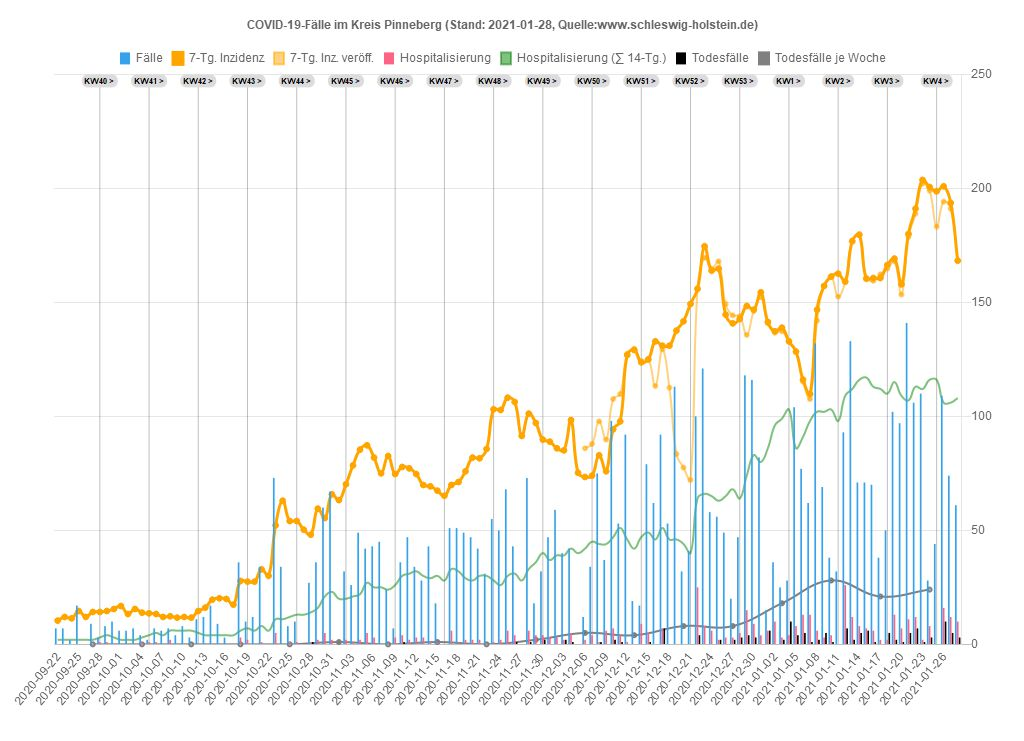
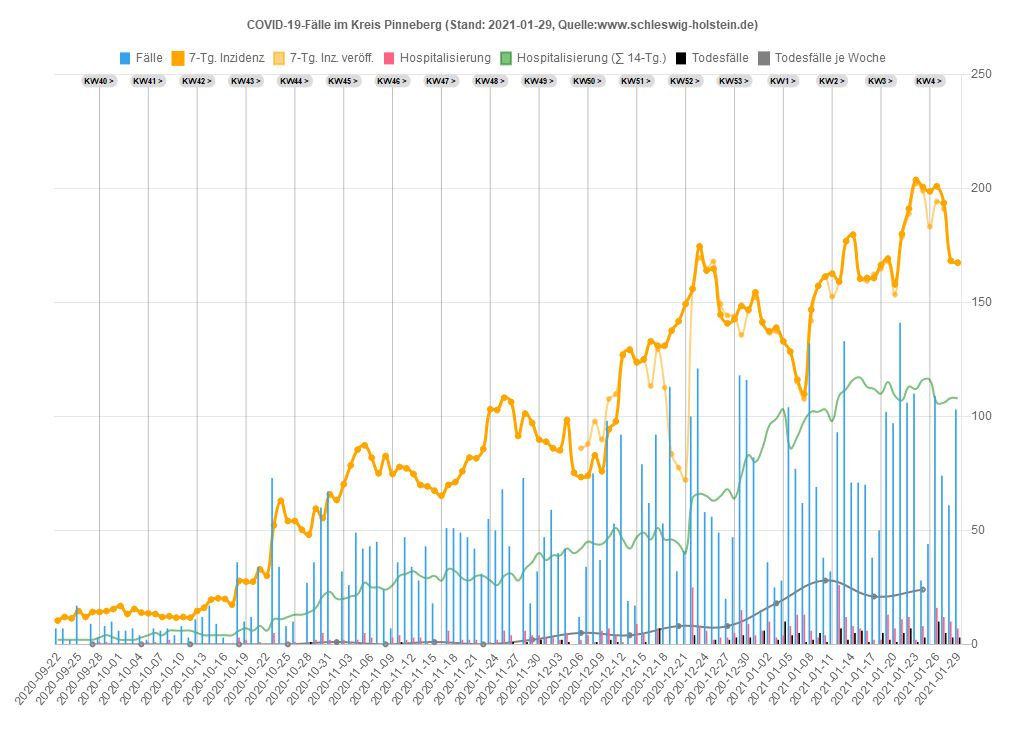
29.01.2021 20:33:06,47

Changed region(s): [[0.0938, 0.0931, 0.9375, 0.9622]]

diff --git a/sh/Data_SH.js b/sh/Data_SH.js
@@ -1,20 +1,20 @@
 var chdata={
-labels: ["2020-09-22","2020-09-23","2020-09-24","2020-09-25","2020-09-26","2020-09-27","2020-09-28","2020-09-29","2020-09-30","2020-10-01","2020-10-02","2020-10-03","2020-10-04","2020-10-05","2020-10-06","2020-10-07","2020-10-08","2020-10-09","2020-10-10","2020-10-11","2020-10-12","2020-10-13","2020-10-14","2020-10-15","2020-10-16","2020-10-17","2020-10-18","2020-10-19","2020-10-20","2020-10-21","2020-10-22","2020-10-23","2020-10-24","2020-10-25","2020-10-26","2020-10-27","2020-10-28","2020-10-29","2020-10-30","2020-10-31","2020-11-01","2020-11-02","2020-11-03","2020-11-04","2020-11-05","2020-11-06","2020-11-07","2020-11-08","2020-11-09","2020-11-10","2020-11-11","2020-11-12","2020-11-13","2020-11-14","2020-11-15","2020-11-16","2020-11-17","2020-11-18","2020-11-19","2020-11-20","2020-11-21","2020-11-22","2020-11-23","2020-11-24","2020-11-25","2020-11-26","2020-11-27","2020-11-28","2020-11-29","2020-11-30","2020-12-01","2020-12-02","2020-12-03","2020-12-04","2020-12-05","2020-12-06","2020-12-07","2020-12-08","2020-12-09","2020-12-10","2020-12-11","2020-12-12","2020-12-13","2020-12-14","2020-12-15","2020-12-16","2020-12-17","2020-12-18","2020-12-19","2020-12-20","2020-12-21","2020-12-22","2020-12-23","2020-12-24","2020-12-25","2020-12-26","2020-12-27","2020-12-28","2020-12-29","2020-12-30","2020-12-31","2021-01-01","2021-01-02","2021-01-03","2021-01-04","2021-01-05","2021-01-06","2021-01-07","2021-01-08","2021-01-09","2021-01-10","2021-01-11","2021-01-12","2021-01-13","2021-01-14","2021-01-15","2021-01-16","2021-01-17","2021-01-18","2021-01-19","2021-01-20","2021-01-21","2021-01-22","2021-01-23","2021-01-24","2021-01-25","2021-01-26","2021-01-27","2021-01-28"],
+labels: ["2020-09-22","2020-09-23","2020-09-24","2020-09-25","2020-09-26","2020-09-27","2020-09-28","2020-09-29","2020-09-30","2020-10-01","2020-10-02","2020-10-03","2020-10-04","2020-10-05","2020-10-06","2020-10-07","2020-10-08","2020-10-09","2020-10-10","2020-10-11","2020-10-12","2020-10-13","2020-10-14","2020-10-15","2020-10-16","2020-10-17","2020-10-18","2020-10-19","2020-10-20","2020-10-21","2020-10-22","2020-10-23","2020-10-24","2020-10-25","2020-10-26","2020-10-27","2020-10-28","2020-10-29","2020-10-30","2020-10-31","2020-11-01","2020-11-02","2020-11-03","2020-11-04","2020-11-05","2020-11-06","2020-11-07","2020-11-08","2020-11-09","2020-11-10","2020-11-11","2020-11-12","2020-11-13","2020-11-14","2020-11-15","2020-11-16","2020-11-17","2020-11-18","2020-11-19","2020-11-20","2020-11-21","2020-11-22","2020-11-23","2020-11-24","2020-11-25","2020-11-26","2020-11-27","2020-11-28","2020-11-29","2020-11-30","2020-12-01","2020-12-02","2020-12-03","2020-12-04","2020-12-05","2020-12-06","2020-12-07","2020-12-08","2020-12-09","2020-12-10","2020-12-11","2020-12-12","2020-12-13","2020-12-14","2020-12-15","2020-12-16","2020-12-17","2020-12-18","2020-12-19","2020-12-20","2020-12-21","2020-12-22","2020-12-23","2020-12-24","2020-12-25","2020-12-26","2020-12-27","2020-12-28","2020-12-29","2020-12-30","2020-12-31","2021-01-01","2021-01-02","2021-01-03","2021-01-04","2021-01-05","2021-01-06","2021-01-07","2021-01-08","2021-01-09","2021-01-10","2021-01-11","2021-01-12","2021-01-13","2021-01-14","2021-01-15","2021-01-16","2021-01-17","2021-01-18","2021-01-19","2021-01-20","2021-01-21","2021-01-22","2021-01-23","2021-01-24","2021-01-25","2021-01-26","2021-01-27","2021-01-28","2021-01-29"],
 datasets: [
 {label: 'Fälle',
 type: 'bar',
 backgroundColor: window.chartColors.blue,
-data: [38,42,63,53,15,15,38,48,49,27,50,16,24,39,54,45,79,54,26,25,65,65,65,55,90,26,88,163,111,160,136,236,142,115,164,164,280,215,313,265,161,142,236,262,220,274,233,177,215,252,247,192,296,158,161,100,294,208,264,250,153,121,145,251,256,225,180,219,71,81,244,240,245,318,234,122,179,356,340,443,429,444,144,210,506,522,489,553,440,193,280,589,673,366,177,201,188,268,576,466,357,135,264,203,265,542,537,482,523,408,143,261,399,491,422,417,358,202,239,468,485,501,459,443,155,162,548,476,363]},
+data: [38,42,63,53,15,15,38,48,49,27,50,16,24,39,54,45,79,54,26,25,65,65,65,55,90,26,88,163,111,160,136,236,142,115,164,164,280,215,313,265,161,142,236,262,220,274,233,177,215,252,247,192,296,158,161,100,294,208,264,250,153,121,145,251,256,225,180,219,71,81,244,240,245,318,234,122,179,356,340,443,429,444,144,210,506,522,489,553,440,193,280,589,673,366,177,201,188,268,576,466,357,135,264,203,265,542,537,482,523,408,143,261,399,491,422,417,358,202,239,468,485,501,459,442,155,161,540,472,386,284]},
 {label: '7-Tg. Inzidenz',
 type: 'line',
 fill: false,
 pointBackgroundColor: 'orange',
 borderColor: 'orange',
-data: [7.2,7.9,8.7,9.4,9.3,9.2,9.1,9.4,9.7,8.4,8.3,8.4,8.7,8.7,8.9,8.8,10.6,10.7,11.1,11.1,12.0,12.4,13.1,12.2,13.5,13.5,15.6,19.0,20.6,23.9,26.7,31.7,35.7,36.6,36.6,38.5,42.6,45.3,48.0,52.2,53.8,53.0,55.5,54.9,55.1,53.7,52.6,53.2,55.7,56.2,55.7,54.8,55.5,52.9,52.4,48.4,49.9,48.5,51.0,49.4,49.2,47.9,49.4,47.9,49.6,48.2,45.8,48.1,46.4,44.2,43.9,43.4,44.1,48.8,49.3,51.1,54.5,58.3,61.8,68.6,72.4,79.7,80.4,81.5,86.6,92.9,94.5,98.8,98.6,100.3,102.7,105.6,110.8,106.6,93.6,85.4,85.2,84.8,84.3,77.2,76.9,75.5,77.6,78.1,78.0,76.9,79.3,83.6,97.0,101.9,99.9,99.7,94.8,93.2,91.2,87.5,85.8,87.8,87.1,89.4,89.2,91.9,93.4,96.3,94.7,92.1,94.8,94.5,89.7]},
+data: [7.2,7.9,8.7,9.4,9.3,9.2,9.1,9.4,9.7,8.4,8.3,8.4,8.7,8.7,8.9,8.8,10.6,10.7,11.1,11.1,12.0,12.4,13.1,12.2,13.5,13.5,15.6,19.0,20.6,23.9,26.7,31.7,35.7,36.6,36.6,38.5,42.6,45.3,48.0,52.2,53.8,53.0,55.5,54.9,55.1,53.7,52.6,53.2,55.7,56.2,55.7,54.8,55.5,52.9,52.4,48.4,49.9,48.5,51.0,49.4,49.2,47.9,49.4,47.9,49.6,48.2,45.8,48.1,46.4,44.2,43.9,43.4,44.1,48.8,49.3,51.1,54.5,58.3,61.8,68.6,72.4,79.7,80.4,81.5,86.6,92.9,94.5,98.8,98.6,100.3,102.7,105.6,110.8,106.6,93.6,85.4,85.2,84.8,84.3,77.2,76.9,75.5,77.6,78.1,78.0,76.9,79.3,83.6,97.0,101.9,99.9,99.7,94.8,93.2,91.2,87.5,85.8,87.8,87.1,89.4,89.2,91.9,93.4,96.3,94.7,92.0,94.5,94.0,90.1,84.0]},
 {label: 'Hospitalisierung',
 type: 'bar',
 backgroundColor: window.chartColors.red,
-data: [1,2,7,1,0,0,2,1,3,1,1,0,4,3,1,1,4,2,0,3,5,1,1,2,4,0,9,10,8,9,12,7,5,6,7,7,11,10,11,6,3,9,19,20,15,15,5,7,13,15,21,13,17,8,17,13,23,10,15,9,7,7,13,16,26,19,12,14,15,10,12,8,10,14,3,5,24,13,26,20,14,12,6,26,27,16,20,18,8,13,13,43,35,23,17,21,26,25,46,33,33,20,34,32,51,58,35,46,34,30,22,45,69,51,59,52,32,37,36,51,53,47,34,33,38,51,37,53,37]},
+data: [1,2,7,1,0,0,2,1,3,1,1,0,4,3,1,1,4,2,0,3,5,1,1,2,4,0,9,10,8,9,12,7,5,6,7,7,11,10,11,6,3,9,19,20,15,15,5,7,13,15,21,13,17,8,17,13,23,10,15,9,7,7,13,16,26,19,12,14,15,10,12,8,10,14,3,5,24,13,26,20,14,12,6,26,27,16,20,18,8,13,13,43,35,23,17,21,26,25,46,33,33,20,34,32,51,58,35,46,34,30,22,45,69,51,59,52,32,37,36,51,53,47,34,33,38,51,37,53,37,29]},
 {label: 'Hosp. (∑ 14-Tg.)',
 type: 'line',
 fill: false,
@@ -22,17 +22,17 @@ hidden: true,
 borderColor: 'rgba(0,255,0,0.5)',
 borderWidth: 1.5,
 pointRadius: 0,
-data: [12,12,20,22,22,22,22,23,23,21,22,21,24,26,26,25,22,23,23,26,29,29,27,28,31,31,36,43,50,58,66,71,76,79,81,87,97,105,112,118,112,111,122,133,136,144,144,145,151,159,169,172,178,180,194,198,202,192,192,186,188,188,188,189,194,200,195,201,199,196,185,183,178,183,179,177,188,185,185,186,188,186,177,193,208,216,226,230,235,243,232,262,271,274,277,286,306,305,324,341,354,356,382,401,439,454,454,477,494,503,499,519,542,560,586,618,616,621,606,599,617,618,618,621,637,643,611,613,591]},
+data: [12,12,20,22,22,22,22,23,23,21,22,21,24,26,26,25,22,23,23,26,29,29,27,28,31,31,36,43,50,58,66,71,76,79,81,87,97,105,112,118,112,111,122,133,136,144,144,145,151,159,169,172,178,180,194,198,202,192,192,186,188,188,188,189,194,200,195,201,199,196,185,183,178,183,179,177,188,185,185,186,188,186,177,193,208,216,226,230,235,243,232,262,271,274,277,286,306,305,324,341,354,356,382,401,439,454,454,477,494,503,499,519,542,560,586,618,616,621,606,599,617,618,618,621,637,643,611,613,591,568]},
 {label: 'Aktuell im Krankenhaus',
 type: 'line',
 fill: false,
 pointBackgroundColor: 'green',
 borderColor: 'green',
-data: [6,6,6,6,6,6,6,11,11,11,11,14,14,15,15,14,14,14,13,13,18,18,18,21,24,24,24,24,31,31,31,31,51,51,58,58,58,58,58,58,58,94,110,114,119,118,124,120,126,116,113,119,112,116,116,148,145,151,141,141,141,141,155,142,122,113,118,118,118,124,114,110,109,114,114,114,131,122,128,132,133,133,133,177,181,194,201,212,236,250,275,271,267,262,262,262,262,309,318,322,346,346,376,376,390,412,376,379,364,364,364,384,362,373,382,398,426,473,454,457,457,438,447,461,485,499,499,494,505]},
+data: [6,6,6,6,6,6,6,11,11,11,11,14,14,15,15,14,14,14,13,13,18,18,18,21,24,24,24,24,31,31,31,31,51,51,58,58,58,58,58,58,58,94,110,114,119,118,124,120,126,116,113,119,112,116,116,148,145,151,141,141,141,141,155,142,122,113,118,118,118,124,114,110,109,114,114,114,131,122,128,132,133,133,133,177,181,194,201,212,236,250,275,271,267,262,262,262,262,309,318,322,346,346,376,376,390,412,376,379,364,364,364,384,362,373,382,398,426,473,454,457,457,438,447,461,485,499,499,494,505,485]},
 {label: 'Todesfälle',
 type: 'bar',
 backgroundColor: 'black',
-data: [0,0,0,0,0,0,0,1,0,0,0,0,0,0,0,0,0,0,0,0,0,1,0,0,0,0,0,0,0,0,1,0,0,3,0,0,3,4,1,0,2,6,7,2,2,6,0,1,4,3,5,0,5,1,3,5,0,2,2,2,1,0,3,4,1,3,3,1,4,2,3,1,4,1,0,1,4,2,5,7,7,1,2,2,6,7,11,3,2,0,9,15,4,3,4,7,10,18,17,14,2,9,7,3,29,22,17,6,14,11,9,15,25,15,15,24,3,1,23,16,16,18,16,3,11,14,25,21,19]},
+data: [0,0,0,0,0,0,0,1,0,0,0,0,0,0,0,0,0,0,0,0,0,1,0,0,0,0,0,0,0,0,1,0,0,3,0,0,3,4,1,0,2,6,7,2,2,6,0,1,4,3,5,0,5,1,3,5,0,2,2,2,1,0,3,4,1,3,3,1,4,2,3,1,4,1,0,1,4,2,5,7,7,1,2,2,6,7,11,3,2,0,9,15,4,3,4,7,10,18,17,14,2,9,7,3,29,22,17,6,14,11,9,15,25,15,15,24,3,1,23,16,16,18,16,3,11,14,25,21,19,19]},
 {label: 'Todesfälle je Woche',
 type: 'line',
 fill: false,
@@ -41,6 +41,6 @@ borderColor: 'rgba(128,128,128,1)',
 borderWidth: 2,
 pointRadius: 2,
 yAxisID: 'first-y-axis',
-data: [,,,,,0,,,,,,,1,,,,,,,0,,,,,,,1,,,,,,,4,,,,,,,10,,,,,,,24,,,,,,,21,,,,,,,12,,,,,,,19,,,,,,,12,,,,,,,28,,,,,,,31,,,,,,,52,,,,,,,70,,,,,,,108,,,,,,,98,,,,,,,103,,,,]},
+data: [,,,,,0,,,,,,,1,,,,,,,0,,,,,,,1,,,,,,,4,,,,,,,10,,,,,,,24,,,,,,,21,,,,,,,12,,,,,,,19,,,,,,,12,,,,,,,28,,,,,,,31,,,,,,,52,,,,,,,70,,,,,,,108,,,,,,,98,,,,,,,103,,,,,]},
 ]};
 

diff --git a/sh/Kreis_PI.js b/sh/Kreis_PI.js
@@ -1,18 +1,18 @@
 var chdata={
-labels: ["2020-09-22","2020-09-23","2020-09-24","2020-09-25","2020-09-26","2020-09-27","2020-09-28","2020-09-29","2020-09-30","2020-10-01","2020-10-02","2020-10-03","2020-10-04","2020-10-05","2020-10-06","2020-10-07","2020-10-08","2020-10-09","2020-10-10","2020-10-11","2020-10-12","2020-10-13","2020-10-14","2020-10-15","2020-10-16","2020-10-17","2020-10-18","2020-10-19","2020-10-20","2020-10-21","2020-10-22","2020-10-23","2020-10-24","2020-10-25","2020-10-26","2020-10-27","2020-10-28","2020-10-29","2020-10-30","2020-10-31","2020-11-01","2020-11-02","2020-11-03","2020-11-04","2020-11-05","2020-11-06","2020-11-07","2020-11-08","2020-11-09","2020-11-10","2020-11-11","2020-11-12","2020-11-13","2020-11-14","2020-11-15","2020-11-16","2020-11-17","2020-11-18","2020-11-19","2020-11-20","2020-11-21","2020-11-22","2020-11-23","2020-11-24","2020-11-25","2020-11-26","2020-11-27","2020-11-28","2020-11-29","2020-11-30","2020-12-01","2020-12-02","2020-12-03","2020-12-04","2020-12-05","2020-12-06","2020-12-07","2020-12-08","2020-12-09","2020-12-10","2020-12-11","2020-12-12","2020-12-13","2020-12-14","2020-12-15","2020-12-16","2020-12-17","2020-12-18","2020-12-19","2020-12-20","2020-12-21","2020-12-22","2020-12-23","2020-12-24","2020-12-25","2020-12-26","2020-12-27","2020-12-28","2020-12-29","2020-12-30","2020-12-31","2021-01-01","2021-01-02","2021-01-03","2021-01-04","2021-01-05","2021-01-06","2021-01-07","2021-01-08","2021-01-09","2021-01-10","2021-01-11","2021-01-12","2021-01-13","2021-01-14","2021-01-15","2021-01-16","2021-01-17","2021-01-18","2021-01-19","2021-01-20","2021-01-21","2021-01-22","2021-01-23","2021-01-24","2021-01-25","2021-01-26","2021-01-27","2021-01-28"],
+labels: ["2020-09-22","2020-09-23","2020-09-24","2020-09-25","2020-09-26","2020-09-27","2020-09-28","2020-09-29","2020-09-30","2020-10-01","2020-10-02","2020-10-03","2020-10-04","2020-10-05","2020-10-06","2020-10-07","2020-10-08","2020-10-09","2020-10-10","2020-10-11","2020-10-12","2020-10-13","2020-10-14","2020-10-15","2020-10-16","2020-10-17","2020-10-18","2020-10-19","2020-10-20","2020-10-21","2020-10-22","2020-10-23","2020-10-24","2020-10-25","2020-10-26","2020-10-27","2020-10-28","2020-10-29","2020-10-30","2020-10-31","2020-11-01","2020-11-02","2020-11-03","2020-11-04","2020-11-05","2020-11-06","2020-11-07","2020-11-08","2020-11-09","2020-11-10","2020-11-11","2020-11-12","2020-11-13","2020-11-14","2020-11-15","2020-11-16","2020-11-17","2020-11-18","2020-11-19","2020-11-20","2020-11-21","2020-11-22","2020-11-23","2020-11-24","2020-11-25","2020-11-26","2020-11-27","2020-11-28","2020-11-29","2020-11-30","2020-12-01","2020-12-02","2020-12-03","2020-12-04","2020-12-05","2020-12-06","2020-12-07","2020-12-08","2020-12-09","2020-12-10","2020-12-11","2020-12-12","2020-12-13","2020-12-14","2020-12-15","2020-12-16","2020-12-17","2020-12-18","2020-12-19","2020-12-20","2020-12-21","2020-12-22","2020-12-23","2020-12-24","2020-12-25","2020-12-26","2020-12-27","2020-12-28","2020-12-29","2020-12-30","2020-12-31","2021-01-01","2021-01-02","2021-01-03","2021-01-04","2021-01-05","2021-01-06","2021-01-07","2021-01-08","2021-01-09","2021-01-10","2021-01-11","2021-01-12","2021-01-13","2021-01-14","2021-01-15","2021-01-16","2021-01-17","2021-01-18","2021-01-19","2021-01-20","2021-01-21","2021-01-22","2021-01-23","2021-01-24","2021-01-25","2021-01-26","2021-01-27","2021-01-28","2021-01-29"],
 datasets: [
 {label: 'Fälle',
 type: 'bar',
 backgroundColor: window.chartColors.blue,
 yAxisID: 'first-y-axis',
-data: [7,7,2,17,0,9,3,8,10,6,6,7,4,2,7,6,7,4,8,3,11,12,17,9,3,0,36,10,12,34,0,73,34,8,10,0,27,36,60,67,0,32,26,49,42,43,45,24,7,36,47,34,28,43,18,0,51,51,49,47,42,31,55,50,68,43,0,73,18,32,47,59,40,42,0,12,34,75,37,98,53,92,19,17,79,62,92,53,113,32,41,100,121,58,56,49,20,47,118,116,82,15,36,25,28,104,77,62,132,69,38,32,93,133,71,71,70,38,50,102,97,141,106,110,28,44,109,74,61]},
+data: [7,7,2,17,0,9,3,8,10,6,6,7,4,2,7,6,7,4,8,3,11,12,17,9,3,0,36,10,12,34,0,73,34,8,10,0,27,36,60,67,0,32,26,49,42,43,45,24,7,36,47,34,28,43,18,0,51,51,49,47,42,31,55,50,68,43,0,73,18,32,47,59,40,42,0,12,34,75,37,98,53,92,19,17,79,62,92,53,113,32,41,100,121,58,56,49,20,47,118,116,82,15,36,25,28,104,77,62,132,69,38,32,93,133,71,71,70,38,50,102,97,141,106,110,28,44,109,74,61,103]},
 {label: '7-Tg. Inzidenz',
 type: 'line',
 fill: false,
 pointBackgroundColor: 'orange',
 borderColor: 'orange',
 yAxisID: 'first-y-axis',
-data: [10.4,12.0,11.4,14.6,12.0213981,14.2,14.2,14.6,15.5,16.8,13.3,15.5,13.9,13.6,13.3,12.0,12.3,11.7,12.0,11.7,14.6,16.1,19.6,20.2,19.9,17.399392,27.8,27.5,27.5,32.9,30.0534952,52.2,63.0,54.1,54.1,50.3000604,48.1,59.5,55.4,65.8,63.2705163,70.2,78.5,85.4,87.3,81.9,75.0,82.6,74.7,77.8,77.2,74.7,69.9,69.3,67.4,65.1686317,69.9,71.2,75.9,81.9,81.6,85.7,103.1,102.8,108.2,106.3,91.425896,101.2,97.1,89.8,88.9,86.0,85.1,98.4,75.2919143,73.4,74.0,82.9,75.9,94.3,97.8,126.9,129.1,123.7,125.0,132.9,131.0,131.0,137.6,141.7,149.3,156.0,174.6,163.9,164.8,144.6,140.8,142.7,148.4,146.8,154.4,141.4,137.3,138.9,132.9,128.4,116.1,109.8,146.8,157.2,161.3,162.6,159.1,176.8,179.7,160.4,160.7,160.7,166.4,169.2,157.9,180.0,191.1,203.7,200.6,198.7,200.9,193.6,168.3]},
+data: [10.4,12.0,11.4,14.6,12.0213981,14.2,14.2,14.6,15.5,16.8,13.3,15.5,13.9,13.6,13.3,12.0,12.3,11.7,12.0,11.7,14.6,16.1,19.6,20.2,19.9,17.399392,27.8,27.5,27.5,32.9,30.0534952,52.2,63.0,54.1,54.1,50.3000604,48.1,59.5,55.4,65.8,63.2705163,70.2,78.5,85.4,87.3,81.9,75.0,82.6,74.7,77.8,77.2,74.7,69.9,69.3,67.4,65.1686317,69.9,71.2,75.9,81.9,81.6,85.7,103.1,102.8,108.2,106.3,91.425896,101.2,97.1,89.8,88.9,86.0,85.1,98.4,75.2919143,73.4,74.0,82.9,75.9,94.3,97.8,126.9,129.1,123.7,125.0,132.9,131.0,131.0,137.6,141.7,149.3,156.0,174.6,163.9,164.8,144.6,140.8,142.7,148.4,146.8,154.4,141.4,137.3,138.9,132.9,128.4,116.1,109.8,146.8,157.2,161.3,162.6,159.1,176.8,179.7,160.4,160.7,160.7,166.4,169.2,157.9,180.0,191.1,203.7,200.6,198.7,200.9,193.6,168.3,167.4]},
 {label: '7-Tg. Inz. veröff.',
 type: 'line',
 fill: false,
@@ -21,12 +21,12 @@ borderColor: 'rgba(255,165,0,0.5)',
 borderWidth: 2,
 pointRadius: 2,
 yAxisID: 'first-y-axis',
-data: [,,,,,,,,,,,,,,,,,,,,,,,,,,,,,,,,,,,,,,,,,,,,,,,,,,,,,,,,,,,,,,,,,,,,,,,,,,,86.0,87.9,97.8,89.8,107.6,109.8,127.5,129.7,124.3,125.0,113.3,129.4,112.6,83.5,77.5,72.1,155.6,169.6,164.8,168.0,149.3,144.3,143.9,135.7,146.2,152.2,140.8,136.7,137.3,132.9,128.4,115.2,107.6,142.0,157.2,161.3,152.5,159.1,177.2,179.4,160.7,159.4,162.3,164.8,168.0,153.4,178.7,188.9,202.1,199.0,183.2,194.2,191.1,168.3]},
+data: [,,,,,,,,,,,,,,,,,,,,,,,,,,,,,,,,,,,,,,,,,,,,,,,,,,,,,,,,,,,,,,,,,,,,,,,,,,,86.0,87.9,97.8,89.8,107.6,109.8,127.5,129.7,124.3,125.0,113.3,129.4,112.6,83.5,77.5,72.1,155.6,169.6,164.8,168.0,149.3,144.3,143.9,135.7,146.2,152.2,140.8,136.7,137.3,132.9,128.4,115.2,107.6,142.0,157.2,161.3,152.5,159.1,177.2,179.4,160.7,159.4,162.3,164.8,168.0,153.4,178.7,188.9,202.1,199.0,183.2,194.2,191.1,168.3,167.4]},
 {label: 'Hospitalisierung',
 type: 'bar',
 backgroundColor: window.chartColors.red,
 yAxisID: 'first-y-axis',
-data: [0,0,0,0,0,0,1,1,0,0,0,0,1,1,1,-1,2,0,0,0,0,0,0,0,0,0,3,2,0,1,0,5,0,1,1,0,1,2,5,2,0,2,1,2,5,3,0,0,3,4,2,3,3,1,1,0,6,1,2,2,2,0,1,2,6,4,0,6,4,4,3,3,2,5,0,2,4,1,6,7,4,1,0,9,5,0,7,0,0,0,0,25,8,6,2,3,3,5,15,9,4,6,10,3,4,8,13,13,6,3,4,0,26,12,8,7,6,2,2,13,7,11,12,2,8,0,16,12,10]},
+data: [0,0,0,0,0,0,1,1,0,0,0,0,1,1,1,-1,2,0,0,0,0,0,0,0,0,0,3,2,0,1,0,5,0,1,1,0,1,2,5,2,0,2,1,2,5,3,0,0,3,4,2,3,3,1,1,0,6,1,2,2,2,0,1,2,6,4,0,6,4,4,3,3,2,5,0,2,4,1,6,7,4,1,0,9,5,0,7,0,0,0,0,25,8,6,2,3,3,5,15,9,4,6,10,3,4,8,13,13,6,3,4,0,26,12,8,7,6,2,2,13,7,11,12,2,8,0,16,12,10,7]},
 {label: 'Hospitalisierung (∑ 14-Tg.)',
 type: 'line',
 pointRadius: 0,
@@ -34,12 +34,12 @@ fill: false,
 borderColor: 'rgba(0,128,0,0.5)',
 borderWidth: 2,
 yAxisID: 'first-y-axis',
-data: [2,2,2,2,2,2,3,4,3,2,2,2,3,4,5,4,6,6,6,6,5,4,4,4,4,4,6,7,6,8,6,11,11,12,13,13,14,16,21,23,20,20,21,22,27,25,25,24,26,30,31,32,30,29,30,28,33,32,29,28,30,30,28,26,30,31,28,33,36,40,37,39,39,42,40,42,45,44,44,47,51,46,42,47,49,46,51,46,46,44,40,64,66,65,63,65,68,64,74,83,80,86,96,99,103,86,91,98,102,102,103,98,109,112,116,117,113,112,110,115,109,107,113,112,116,116,106,106,108]},
+data: [2,2,2,2,2,2,3,4,3,2,2,2,3,4,5,4,6,6,6,6,5,4,4,4,4,4,6,7,6,8,6,11,11,12,13,13,14,16,21,23,20,20,21,22,27,25,25,24,26,30,31,32,30,29,30,28,33,32,29,28,30,30,28,26,30,31,28,33,36,40,37,39,39,42,40,42,45,44,44,47,51,46,42,47,49,46,51,46,46,44,40,64,66,65,63,65,68,64,74,83,80,86,96,99,103,86,91,98,102,102,103,98,109,112,116,117,113,112,110,115,109,107,113,112,116,116,106,106,108,108]},
 {label: 'Todesfälle',
 type: 'bar',
 backgroundColor: 'black',
 yAxisID: 'first-y-axis',
-data: [0,0,0,0,0,0,0,0,0,0,0,0,0,0,0,0,0,0,0,0,0,0,0,0,0,0,0,0,0,0,0,0,0,0,0,0,1,0,0,0,0,0,0,0,0,0,0,0,0,1,0,0,0,0,0,0,0,0,0,0,0,0,0,0,0,1,0,1,0,2,0,0,2,1,0,0,0,1,0,2,1,0,0,0,1,0,7,0,0,0,0,4,0,0,2,0,2,3,4,3,0,6,0,2,10,4,5,1,2,5,1,0,7,2,5,6,1,0,5,2,1,5,7,1,3,0,10,5,3]},
+data: [0,0,0,0,0,0,0,0,0,0,0,0,0,0,0,0,0,0,0,0,0,0,0,0,0,0,0,0,0,0,0,0,0,0,0,0,1,0,0,0,0,0,0,0,0,0,0,0,0,1,0,0,0,0,0,0,0,0,0,0,0,0,0,0,0,1,0,1,0,2,0,0,2,1,0,0,0,1,0,2,1,0,0,0,1,0,7,0,0,0,0,4,0,0,2,0,2,3,4,3,0,6,0,2,10,4,5,1,2,5,1,0,7,2,5,6,1,0,5,2,1,5,7,1,3,0,10,5,3,3]},
 {label: 'Todesfälle je Woche',
 type: 'line',
 fill: false,
@@ -48,6 +48,6 @@ borderColor: 'rgba(128,128,128,1)',
 borderWidth: 2,
 pointRadius: 2,
 yAxisID: 'first-y-axis',
-data: [,,,,,0,,,,,,,0,,,,,,,0,,,,,,,0,,,,,,,0,,,,,,,1,,,,,,,0,,,,,,,1,,,,,,,0,,,,,,,2,,,,,,,5,,,,,,,4,,,,,,,8,,,,,,,8,,,,,,,18,,,,,,,28,,,,,,,21,,,,,,,24,,,,]},
+data: [,,,,,0,,,,,,,0,,,,,,,0,,,,,,,0,,,,,,,0,,,,,,,1,,,,,,,0,,,,,,,1,,,,,,,0,,,,,,,2,,,,,,,5,,,,,,,4,,,,,,,8,,,,,,,8,,,,,,,18,,,,,,,28,,,,,,,21,,,,,,,24,,,,,]},
 ]};
 

diff --git a/sh/Data_SH_Alter.js b/sh/Data_SH_Alter.js
@@ -139,7 +139,8 @@ var chdata={
 				{x: '2021-01-25', y: 'Alle', v: 88.5744168, casesum: 2572},{x: '2021-01-25', y: '00-09', v: 37.7840621, casesum: 97},{x: '2021-01-25', y: '10-19', v: 64.8534276, casesum: 179},{x: '2021-01-25', y: '20-29', v: 117.513955, casesum: 376},{x: '2021-01-25', y: '30-39', v: 106.221864, casesum: 357},{x: '2021-01-25', y: '40-49', v: 90.7870957, casesum: 320},{x: '2021-01-25', y: '50-59', v: 77.3111076, casesum: 383},{x: '2021-01-25', y: '60-69', v: 59.4173796, casesum: 216},{x: '2021-01-25', y: '70-79', v: 61.8387394, casesum: 183},{x: '2021-01-25', y: '80-89', v: 181.724651, casesum: 325},{x: '2021-01-25', y: '90+', v: 471.960022, casesum: 136},
 				{x: '2021-01-26', y: 'Alle', v: 91.2605772, casesum: 2650},{x: '2021-01-26', y: '00-09', v: 46.7431697, casesum: 120},{x: '2021-01-26', y: '10-19', v: 72.4619303, casesum: 200},{x: '2021-01-26', y: '20-29', v: 118.139029, casesum: 378},{x: '2021-01-26', y: '30-39', v: 101.46122, casesum: 341},{x: '2021-01-26', y: '40-49', v: 97.0287086, casesum: 342},{x: '2021-01-26', y: '50-59', v: 81.5500978, casesum: 404},{x: '2021-01-26', y: '60-69', v: 58.8672187, casesum: 214},{x: '2021-01-26', y: '70-79', v: 66.569572, casesum: 197},{x: '2021-01-26', y: '80-89', v: 185.079567, casesum: 331},{x: '2021-01-26', y: '90+', v: 426.846197, casesum: 123},
 				{x: '2021-01-27', y: 'Alle', v: 92.7414092, casesum: 2693},{x: '2021-01-27', y: '00-09', v: 49.4698546, casesum: 127},{x: '2021-01-27', y: '10-19', v: 75.3604075, casesum: 208},{x: '2021-01-27', y: '20-29', v: 110.950675, casesum: 355},{x: '2021-01-27', y: '30-39', v: 102.353841, casesum: 344},{x: '2021-01-27', y: '40-49', v: 96.4612892, casesum: 340},{x: '2021-01-27', y: '50-59', v: 80.1371011, casesum: 397},{x: '2021-01-27', y: '60-69', v: 62.1681842, casesum: 226},{x: '2021-01-27', y: '70-79', v: 73.3279041, casesum: 217},{x: '2021-01-27', y: '80-89', v: 197.380928, casesum: 353},{x: '2021-01-27', y: '90+', v: 437.257079, casesum: 126},
-				{x: '2021-01-28', y: 'Alle', v: 87.9889716, casesum: 2555},{x: '2021-01-28', y: '00-09', v: 50.6384338, casesum: 130},{x: '2021-01-28', y: '10-19', v: 72.4619303, casesum: 200},{x: '2021-01-28', y: '20-29', v: 106.262619, casesum: 340},{x: '2021-01-28', y: '30-39', v: 90.4522314, casesum: 304},{x: '2021-01-28', y: '40-49', v: 87.6662893, casesum: 309},{x: '2021-01-28', y: '50-59', v: 77.5129642, casesum: 384},{x: '2021-01-28', y: '60-69', v: 59.4173796, casesum: 216},{x: '2021-01-28', y: '70-79', v: 69.6108214, casesum: 206},{x: '2021-01-28', y: '80-89', v: 186.757026, casesum: 334},{x: '2021-01-28', y: '90+', v: 458.078845, casesum: 132}
+				{x: '2021-01-28', y: 'Alle', v: 87.9889716, casesum: 2555},{x: '2021-01-28', y: '00-09', v: 50.6384338, casesum: 130},{x: '2021-01-28', y: '10-19', v: 72.4619303, casesum: 200},{x: '2021-01-28', y: '20-29', v: 106.262619, casesum: 340},{x: '2021-01-28', y: '30-39', v: 90.4522314, casesum: 304},{x: '2021-01-28', y: '40-49', v: 87.6662893, casesum: 309},{x: '2021-01-28', y: '50-59', v: 77.5129642, casesum: 384},{x: '2021-01-28', y: '60-69', v: 59.4173796, casesum: 216},{x: '2021-01-28', y: '70-79', v: 69.6108214, casesum: 206},{x: '2021-01-28', y: '80-89', v: 186.757026, casesum: 334},{x: '2021-01-28', y: '90+', v: 458.078845, casesum: 132},
+				{x: '2021-01-29', y: 'Alle', v: 84.1319208, casesum: 2443},{x: '2021-01-29', y: '00-09', v: 45.9641168, casesum: 118},{x: '2021-01-29', y: '10-19', v: 71.0126917, casesum: 196},{x: '2021-01-29', y: '20-29', v: 100.636951, casesum: 322},{x: '2021-01-29', y: '30-39', v: 89.8571509, casesum: 302},{x: '2021-01-29', y: '40-49', v: 89.9359667, casesum: 317},{x: '2021-01-29', y: '50-59', v: 77.5129642, casesum: 384},{x: '2021-01-29', y: '60-69', v: 53.9157704, casesum: 196},{x: '2021-01-29', y: '70-79', v: 63.8662391, casesum: 189},{x: '2021-01-29', y: '80-89', v: 169.982443, casesum: 304},{x: '2021-01-29', y: '90+', v: 399.083842, casesum: 115}
 			],
 			backgroundColor: function(context) {
 				return inzColor(context.dataset.data[context.dataIndex].v)
@@ -147,7 +148,7 @@ var chdata={
 			width: function(context) {
 				const a = context.chart.chartArea
 				if (!a) return 0
-				return (a.right - a.left) / 136.5
+				return (a.right - a.left) / 137.5
 			},
 			height: function(context) {
 				const a = context.chart.chartArea
@@ -159,7 +160,7 @@ var chdata={
 	options: {
 		legend: { display: false },
 		scales: {
-			xAxes: [{type: 'category', labels: ["2020-09-15","2020-09-16","2020-09-17","2020-09-18","2020-09-19","2020-09-20","2020-09-21","2020-09-22","2020-09-23","2020-09-24","2020-09-25","2020-09-26","2020-09-27","2020-09-28","2020-09-29","2020-09-30","2020-10-01","2020-10-02","2020-10-03","2020-10-04","2020-10-05","2020-10-06","2020-10-07","2020-10-08","2020-10-09","2020-10-10","2020-10-11","2020-10-12","2020-10-13","2020-10-14","2020-10-15","2020-10-16","2020-10-17","2020-10-18","2020-10-19","2020-10-20","2020-10-21","2020-10-22","2020-10-23","2020-10-24","2020-10-25","2020-10-26","2020-10-27","2020-10-28","2020-10-29","2020-10-30","2020-10-31","2020-11-01","2020-11-02","2020-11-03","2020-11-04","2020-11-05","2020-11-06","2020-11-07","2020-11-08","2020-11-09","2020-11-10","2020-11-11","2020-11-12","2020-11-13","2020-11-14","2020-11-15","2020-11-16","2020-11-17","2020-11-18","2020-11-19","2020-11-20","2020-11-21","2020-11-22","2020-11-23","2020-11-24","2020-11-25","2020-11-26","2020-11-27","2020-11-28","2020-11-29","2020-11-30","2020-12-01","2020-12-02","2020-12-03","2020-12-04","2020-12-05","2020-12-06","2020-12-07","2020-12-08","2020-12-09","2020-12-10","2020-12-11","2020-12-12","2020-12-13","2020-12-14","2020-12-15","2020-12-16","2020-12-17","2020-12-18","2020-12-19","2020-12-20","2020-12-21","2020-12-22","2020-12-23","2020-12-24","2020-12-25","2020-12-26","2020-12-27","2020-12-28","2020-12-29","2020-12-30","2020-12-31","2021-01-01","2021-01-02","2021-01-03","2021-01-04","2021-01-05","2021-01-06","2021-01-07","2021-01-08","2021-01-09","2021-01-10","2021-01-11","2021-01-12","2021-01-13","2021-01-14","2021-01-15","2021-01-16","2021-01-17","2021-01-18","2021-01-19","2021-01-20","2021-01-21","2021-01-22","2021-01-23","2021-01-24","2021-01-25","2021-01-26","2021-01-27","2021-01-28",], ticks: {display: true},gridlines:{display:false}}],
+			xAxes: [{type: 'category', labels: ["2020-09-15","2020-09-16","2020-09-17","2020-09-18","2020-09-19","2020-09-20","2020-09-21","2020-09-22","2020-09-23","2020-09-24","2020-09-25","2020-09-26","2020-09-27","2020-09-28","2020-09-29","2020-09-30","2020-10-01","2020-10-02","2020-10-03","2020-10-04","2020-10-05","2020-10-06","2020-10-07","2020-10-08","2020-10-09","2020-10-10","2020-10-11","2020-10-12","2020-10-13","2020-10-14","2020-10-15","2020-10-16","2020-10-17","2020-10-18","2020-10-19","2020-10-20","2020-10-21","2020-10-22","2020-10-23","2020-10-24","2020-10-25","2020-10-26","2020-10-27","2020-10-28","2020-10-29","2020-10-30","2020-10-31","2020-11-01","2020-11-02","2020-11-03","2020-11-04","2020-11-05","2020-11-06","2020-11-07","2020-11-08","2020-11-09","2020-11-10","2020-11-11","2020-11-12","2020-11-13","2020-11-14","2020-11-15","2020-11-16","2020-11-17","2020-11-18","2020-11-19","2020-11-20","2020-11-21","2020-11-22","2020-11-23","2020-11-24","2020-11-25","2020-11-26","2020-11-27","2020-11-28","2020-11-29","2020-11-30","2020-12-01","2020-12-02","2020-12-03","2020-12-04","2020-12-05","2020-12-06","2020-12-07","2020-12-08","2020-12-09","2020-12-10","2020-12-11","2020-12-12","2020-12-13","2020-12-14","2020-12-15","2020-12-16","2020-12-17","2020-12-18","2020-12-19","2020-12-20","2020-12-21","2020-12-22","2020-12-23","2020-12-24","2020-12-25","2020-12-26","2020-12-27","2020-12-28","2020-12-29","2020-12-30","2020-12-31","2021-01-01","2021-01-02","2021-01-03","2021-01-04","2021-01-05","2021-01-06","2021-01-07","2021-01-08","2021-01-09","2021-01-10","2021-01-11","2021-01-12","2021-01-13","2021-01-14","2021-01-15","2021-01-16","2021-01-17","2021-01-18","2021-01-19","2021-01-20","2021-01-21","2021-01-22","2021-01-23","2021-01-24","2021-01-25","2021-01-26","2021-01-27","2021-01-28","2021-01-29",], ticks: {display: true},gridlines:{display:false}}],
 			yAxes: [{type: 'category', labels: ["Alle","00-09","10-19","20-29","30-39","40-49","50-59","60-69","70-79","80-89","90+"], offset:true, ticks: {display: true},gridlines:{display:false}}],
 		},
 	}

diff --git a/sh/index_sh_alter.html b/sh/index_sh_alter.html
@@ -5,7 +5,7 @@
 <meta property="og:image" content="index_sh_alter.jpg" />
 <meta property="og:type" content="website" />
 <meta property="og:locale" content="de_DE" />
-<meta property="og:updated_time" content="2021-01-29T17:02:06+01:00" />
+<meta property="og:updated_time" content="2021-01-29T20:33:06+01:00" />
 <title>Altersverteilung der COVID-19-Fälle in Schleswig-Holstein</title>
 <link rel="stylesheet" href="../css/style.css" media="screen" type="text/css">
 <link rel="stylesheet" media="screen" href="Chart.min.css"> 

diff --git a/sh/index_pi_alter.html b/sh/index_pi_alter.html
@@ -5,7 +5,7 @@
 <meta property="og:image" content="index_pi_alter.jpg" />
 <meta property="og:type" content="website" />
 <meta property="og:locale" content="de_DE" />
-<meta property="og:updated_time" content="2021-01-29T17:02:06+01:00" />
+<meta property="og:updated_time" content="2021-01-29T20:33:06+01:00" />
 <title>Altersverteilung der COVID-19-Fälle im Kreis Pinneberg</title>
 <link rel="stylesheet" href="../css/style.css" media="screen" type="text/css">
 <link rel="stylesheet" media="screen" href="Chart.min.css"> 

diff --git a/sh/index.html b/sh/index.html
@@ -5,7 +5,7 @@
 <meta property="og:image" content="index.jpg" />
 <meta property="og:type" content="website" />
 <meta property="og:locale" content="de_DE" />
-<meta property="og:updated_time" content="2021-01-29T17:02:06+01:00" />
+<meta property="og:updated_time" content="2021-01-29T20:33:06+01:00" />
 <title>COVID-19-Fälle im Kreis Pinneberg</title>
 <link rel="stylesheet" href="../css/style.css" media="screen" type="text/css">
 <link rel="stylesheet" media="screen" href="Chart.min.css"> 
